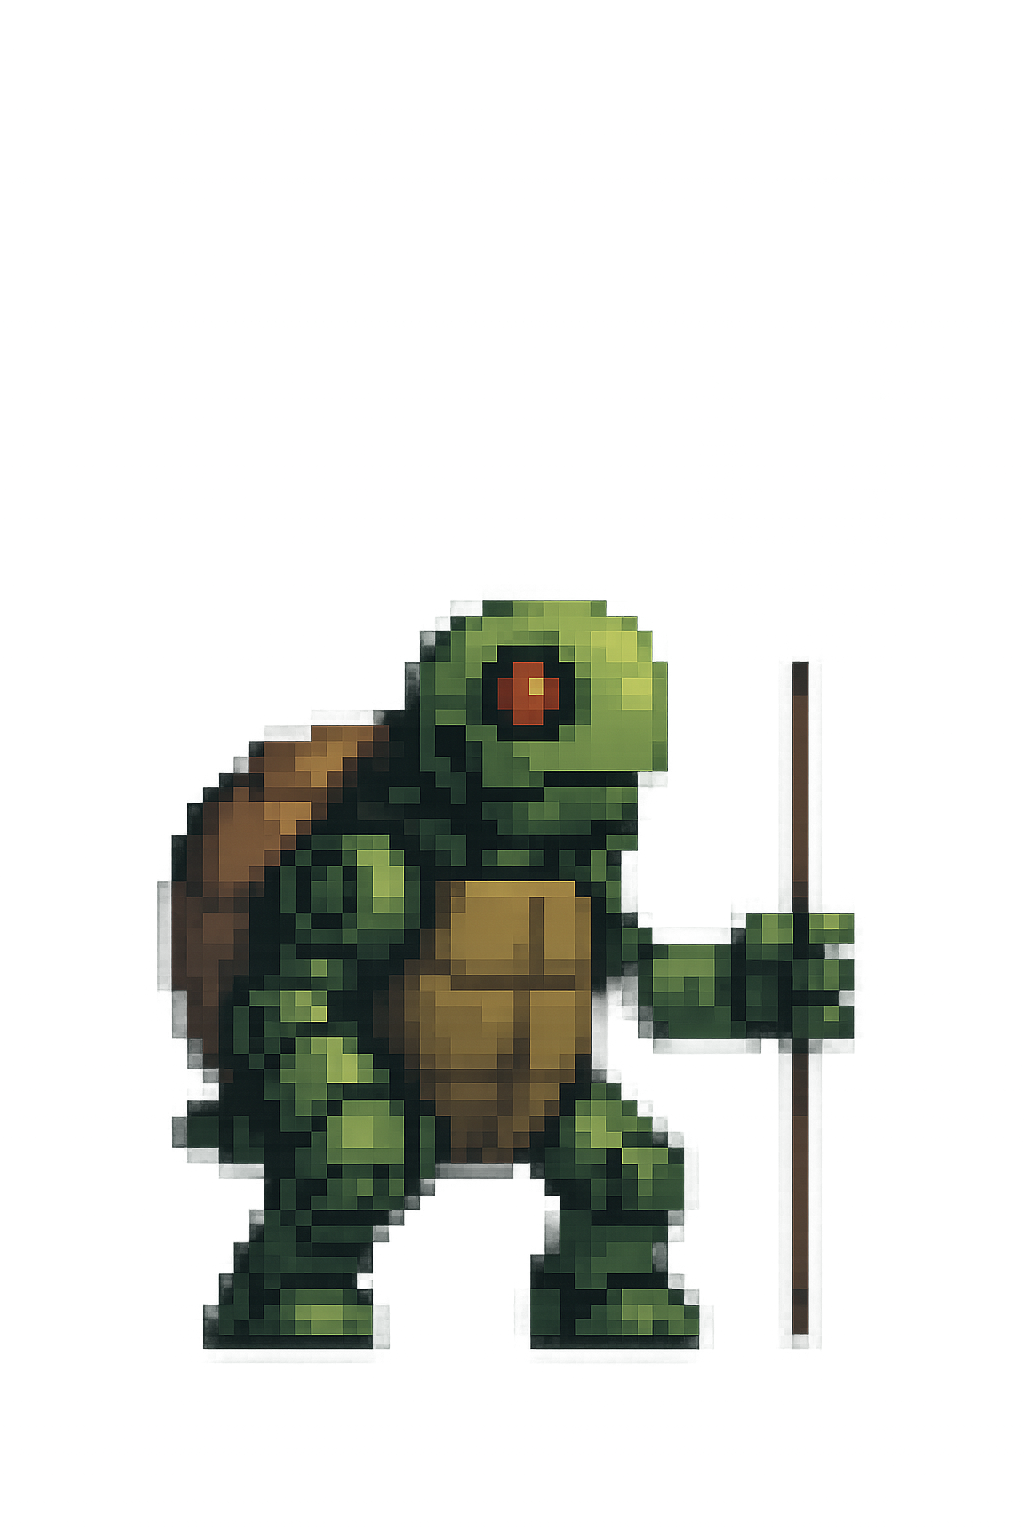
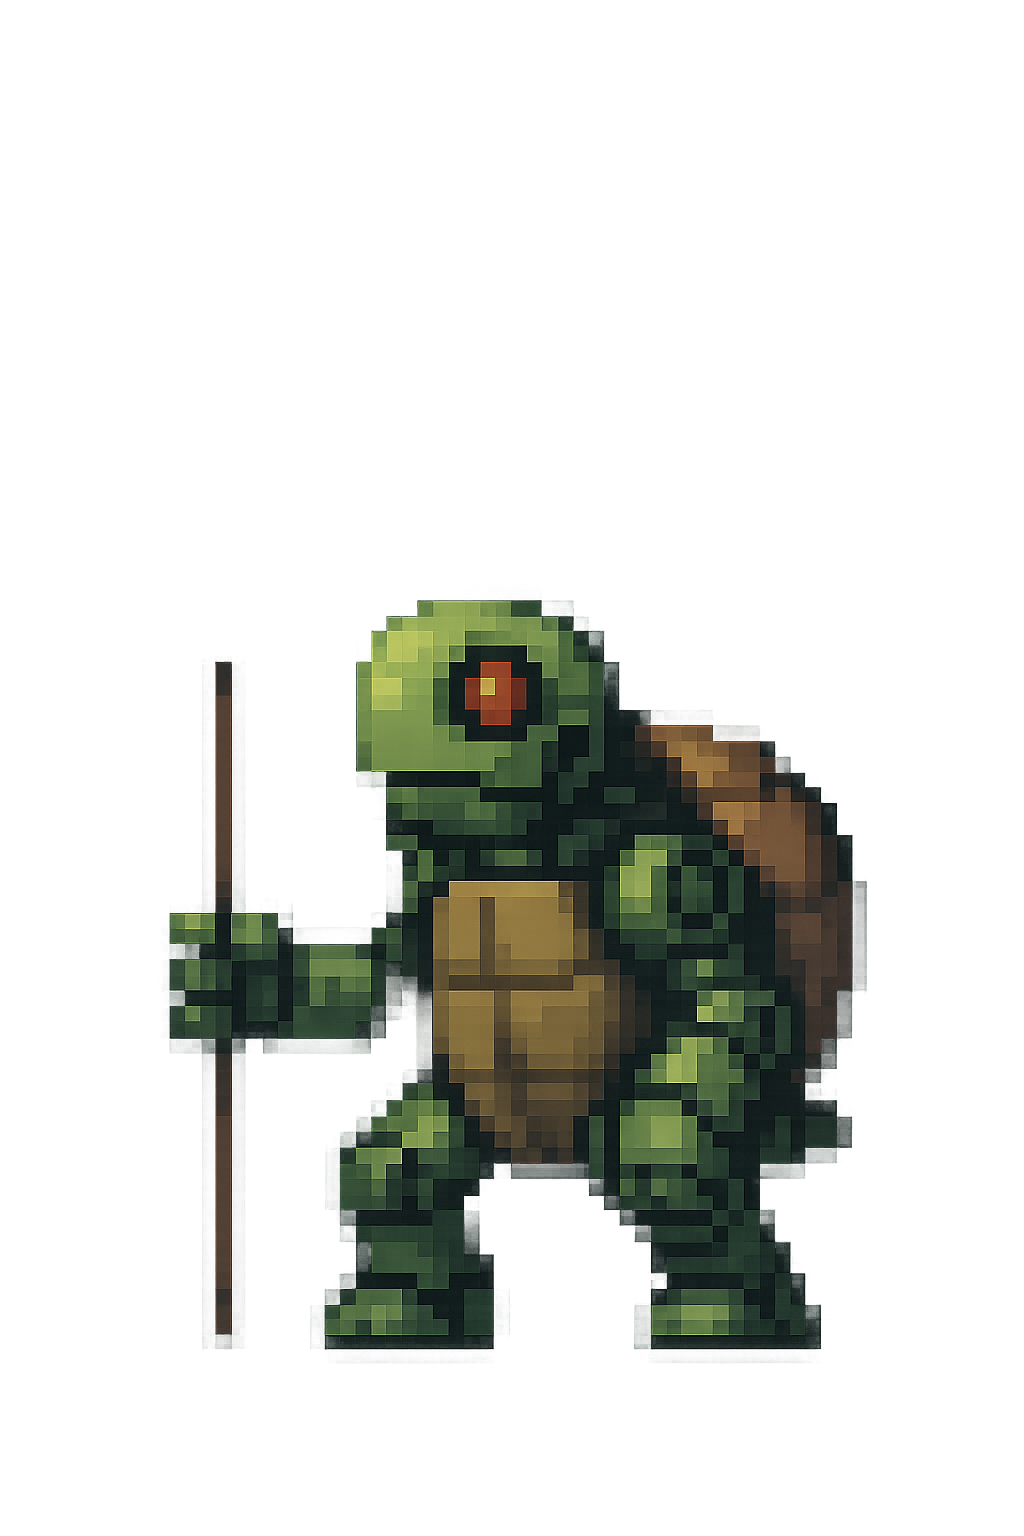
Ajustes na batalha, patch notes de cartas e correção de ataques

Changed region(s): [[0.1562, 0.375, 0.8438, 0.9062]]

diff --git a/script/battle.js b/script/battle.js
@@ -15,7 +15,7 @@ const impulsoDeNanomaquinas = { name: 'Impulso de Nanomáquinas', imageSrc: '../
 const lancaGranadas = { name: 'Lança-Granadas', imageSrc: '../img/cards/Cards vermelho/Lança Granadas.png', type: 'attack', effect: function(caster, target) { console.log(`${caster.id} usou Lança-Granadas!`); dealDamage(caster, target, 18); target.effects.isStunned = true; console.log(`${target.id} está atordoado!`); } };
 const overclocking = { name: 'Overclocking', imageSrc: '../img/cards/Cards verde/Overclocking.png', effect: function(caster, targets) { console.log(`${caster.id} usou Overclocking!`); caster.effects.damageBonus = 0.30; caster.effects.damageBonusDuration = 3; console.log(`Dano aumentado em 30% por 2 turnos.`); } };
 const reforcoDeEstrutura = { name: 'Reforço de Estrutura', imageSrc: '../img/cards/Cards verde/Reforço de Estrutura.png', effect: function(caster, targets) { console.log(`${caster.id} usou Reforço de Estrutura!`); caster.maxHp += 10; caster.hp += 10; console.log(`Vida máxima aumentada para ${caster.maxHp}.`); } };
-const sincronizacaoNeural = { name: 'Sincronização Neural', imageSrc: '../img/cards/Cards verde/Sincronização Neural.png', effect: function(caster, targets) { console.log(`${caster.id} usou Sincronização Neural!`); drawCard(); console.log(`Uma carta foi comprada.`); } };
+// const sincronizacaoNeural = { name: 'Sincronização Neural', imageSrc: '../img/cards/Cards verde/Sincronização Neural.png', effect: function(caster, targets) { console.log(`${caster.id} usou Sincronização Neural!`); drawCard(); console.log(`Uma carta foi comprada.`); } };
 const sistemaDeReflexao = { name: 'Sistema de Reflexão', imageSrc: '../img/cards/Cards azul/Sistema de Reflexão.png', effect: function(caster, targets) { console.log(`${caster.id} ativou o Sistema de Reflexão!`); caster.effects.reflectDamageBonus = 0.60; caster.effects.reflectDamageDuration = 2; console.log(`Refletirá 60% do dano por 1 turno.`); } };
 const tiroCarregado = { name: 'Tiro Carregado', imageSrc: '../img/cards/Cards vermelho/Tiro Carregado.png', type: 'attack', effect: function(caster, target) { console.log(`${caster.id} usou Tiro Carregado!`); dealDamage(caster, target, 30); } };
 
@@ -23,7 +23,7 @@ const tiroCarregado = { name: 'Tiro Carregado', imageSrc: '../img/cards/Cards ve
 const cardDatabase = {
     adrenalinaSintetica, barreira, blindagemReforcada, campoDeForca, chuvaDeFragmentos,
     deslocamentoRapido, explosaoDeEnergia, impactoCinetico, impulsoDeNanomaquinas,
-    lancaGranadas, overclocking, reforcoDeEstrutura, sincronizacaoNeural,
+    lancaGranadas, overclocking, reforcoDeEstrutura, //sincronizacaoNeural,
     sistemaDeReflexao, tiroCarregado
 };
 
@@ -38,6 +38,7 @@ const player = {
     barrier: 10,
     mechaElement: document.getElementById('p1-battle'),
     hpBar: document.getElementById('player-hp'),
+    hpValueText: document.getElementById('player-hp-value'),
     hpText: document.querySelector('.life-cash span:nth-child(1)'),
     barrierText: document.getElementById('player-barrier'),
     effects: {
@@ -60,6 +61,7 @@ const enemy = {
     baseDamage: 8,
     mechaElement: document.getElementById('enemy-mecha'),
     hpBar: document.getElementById('enemy-hp'),
+    hpValueText: document.getElementById('enemy-hp-value'),
     effects: {
         isStunned: false
     }
@@ -236,6 +238,10 @@ function updateUI() {
     
     player.hpText.textContent = `❤ ${player.hp}/${player.maxHp}`;
     if (player.barrierText) player.barrierText.textContent = player.barrier;
+
+    // ADICIONE ESTAS DUAS LINHAS
+    if (player.hpValueText) player.hpValueText.textContent = `${player.hp} / ${player.maxHp}`;
+    if (enemy.hpValueText) enemy.hpValueText.textContent = `${enemy.hp} / ${enemy.maxHp}`;
 }
 
 function animateAttack(element, animationClass) {

diff --git a/EXTRA/battle.css b/EXTRA/battle.css
@@ -83,7 +83,6 @@ body {
   display: flex;
   flex-direction: column;
   padding-top: 17%;
-  transform: scaleX(-1);
 }
 
 progress {
@@ -95,7 +94,6 @@ progress {
 .hands {
   display: flex;
   justify-content: space-evenly;
-  margin-top: 20px;
   align-items: center;
 }
 
@@ -168,16 +166,16 @@ footer {
     transform: translate(0, 0) rotate(0deg);
   }
   20% {
-    transform: translate(30px, 0) rotate(0deg); /* avança para a esquerda */
+    transform: translate(-30px, 0) rotate(0deg); /* avança para a esquerda */
   }
   30% {
-    transform: translate(80px, 0px) rotate(15deg); /* cabeçada inclinada */
+    transform: translate(-80px, 0px) rotate(-15deg); /* cabeçada inclinada */
   }
   45% {
-    transform: translate(30px, 0px) rotate(0deg); /* recuo da cabeçada */
+    transform: translate(-30px, 0px) rotate(0deg); /* recuo da cabeçada */
   }
   50% {
-    transform: translate(20px, 0) rotate(0deg); /* volta da cabeçada */
+    transform: translate(-20px, 0) rotate(0deg); /* volta da cabeçada */
   }
   100% {
     transform: translate(0, 0) rotate(0deg); /* retorna à posição inicial */
@@ -199,6 +197,16 @@ footer {
     transform: translate(-50%, -50%) scale(1.2); /* Centraliza e aumenta um pouco */
     z-index: 100; /* Garante que a carta fique na frente de tudo */
     pointer-events: none; /* Impede que seja clicada novamente no meio da tela */
+}
+
+/* Estilo para o texto de HP abaixo das barras de vida */
+.hp-text {
+  color: white;
+  font-weight: bold;
+  text-align: center;
+  text-shadow: 1px 1px 2px black; /* Sombra para melhorar a leitura */
+  font-family: 'Arial', sans-serif;
+  font-size: 1em;
 }
 
 .hidden {
@@ -316,15 +324,14 @@ h2 {
 /* Animação para a carta Impacto Cinético */
 @keyframes push-back-anim {
   50% {
-    transform: translateX(50px) scaleX(-1); /* O scaleX(-1) mantém o inimigo virado para o jogador */
+    transform: translateX(50px) scaleX(1);
   }
   100% {
-    transform: scaleX(-1); /* Retorna à posição original */
+    transform: scaleX(1); /* Retorna à posição original */
   }
 }
 
 .pushed-back {
-    /* É importante manter o transform original do inimigo */
     transform-origin: center; 
     animation: push-back-anim 0.5s ease-out;
 }

diff --git a/script/cards.js b/script/cards.js
@@ -197,21 +197,21 @@ export const reforcoDeEstrutura = {
     }
 };
 
-export const sincronizacaoNeural = {
-    name: 'Sincronização Neural',
-    cost: 1,
-    type: 'skill',
-    description: 'Reduz o custo de cartas de ataque em 1 por 2 turnos.',
-    effect: function(caster, target) {
-        console.log(`${caster.mechaElement.id} usou Sincronização Neural!`);
+// export const sincronizacaoNeural = {
+//     name: 'Sincronização Neural',
+//     cost: 1,
+//     type: 'skill',
+//     description: 'Reduz o custo de cartas de ataque em 1 por 2 turnos.',
+//     effect: function(caster, target) {
+//         console.log(`${caster.mechaElement.id} usou Sincronização Neural!`);
 
-        // Ativa a redução de custo e define sua duração.
-        caster.effects.attackCostReduction = 1;
-        caster.effects.attackCostReductionDuration = 2;
+//         // Ativa a redução de custo e define sua duração.
+//         caster.effects.attackCostReduction = 1;
+//         caster.effects.attackCostReductionDuration = 2;
         
-        console.log(`Custo de ataques reduzido por 2 turnos.`);
-    }
-};
+//         console.log(`Custo de ataques reduzido por 2 turnos.`);
+//     }
+// };
 
 export const sistemaDeReflexao = {
     name: 'Sistema de Reflexão',

diff --git a/EXTRA/battle.html b/EXTRA/battle.html
@@ -30,18 +30,20 @@
 
       <div class="battlefield">
         <div class="p1">
-          <img id="p1-battle"
-            src="../img/mecas/Robô Mecha Pixelizado (1).png"
-            class="mecha animate__animated"
-          />          
-        <progress id="player-hp" value="100" max="100"></progress>
-      </div>
+    <img id="p1-battle"
+        src="../img/mecas/Robô Mecha Pixelizado (1).png"
+        class="mecha animate__animated"
+    />          
+    <progress id="player-hp" value="100" max="100"></progress>
+    <div id="player-hp-value" class="hp-text">100 / 100</div>
+</div>
       <div class="p2">
-        <img
-          id="enemy-mecha" src="../img/inimigos/tartaruga.png"
-          class="mecha enemy animate__animated" />
-          <progress id="enemy-hp" value="100" max="100"></progress>
-      </div>
+    <img
+        id="enemy-mecha" src="../img/inimigos/tartaruga.png"
+        class="mecha enemy animate__animated" />
+    <progress id="enemy-hp" value="100" max="100"></progress>
+    <div id="enemy-hp-value" class="hp-text">100 / 100</div>
+</div>
     </div>
 
 <footer class="footer">

diff --git a/pages/jogo.html b/pages/jogo.html
@@ -28,7 +28,7 @@
       <audio src="./../audio/artblock.ogg" id="audio" loop></audio>
     </div>
     <div class="tela luta" id="div3">
-      <div class="game-container">
+      <!-- <div class="game-container">
       <div class="status-bar">
         <div class="life-cash">
         <span>❤ 100/100</span>
@@ -88,7 +88,7 @@
             </div>
         </section>
     </main>
-</div>
+</div> -->
       <button id="lutaUm">voltar para mapa</button>
       <button id="lutaDois" >ir para inventário</button>
       <div class="hand" id="hand"></div>
